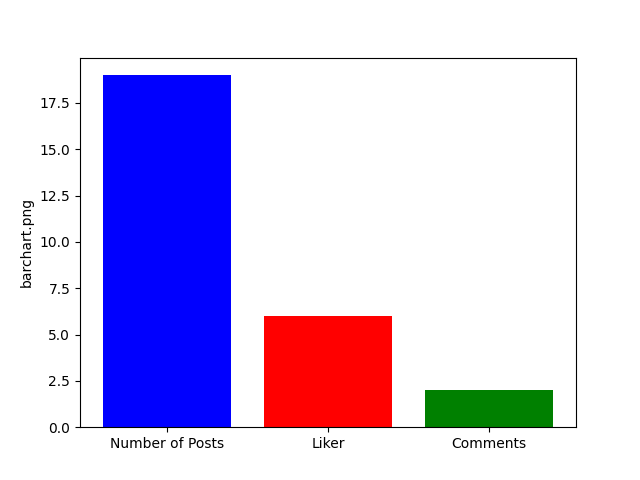
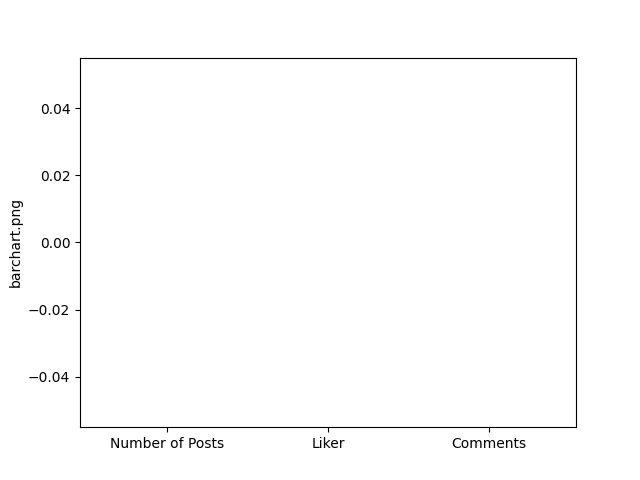
pushing latest changes

diff --git a/static/download/test1@gmail.com.html b/static/download/test1@gmail.com.html
@@ -1,0 +1,51 @@
+<!DOCTYPE html>
+<html lang="en">
+<head>
+	<meta charset="UTF-8">
+	<meta http-equiv="X-UA-Compatible" content="IE=edge">
+	<meta name="viewport" content="width=device-width, initial-scale=1.0">
+	<title>Monthly Report</title>
+	<link href="https://cdn.jsdelivr.net/npm/bootstrap@5.2.3/dist/css/bootstrap.min.css" rel="stylesheet" integrity="sha384-rbsA2VBKQhggwzxH7pPCaAqO46MgnOM80zW1RWuH61DGLwZJEdK2Kadq2F9CUG65" crossorigin="anonymous">
+</head>
+<body>
+		<div class="container">
+				<div class="jumbotron">
+						<div class="h6">Dear test one,</div>
+				</div>
+				<div class="row justify-content-center h2">
+						
+						Your Performance in Last Month
+				
+				
+		</div>
+				<div class="row my-2 justify-content-center text-info">
+						
+								You have created 0 posts 
+						
+						
+				</div>
+				<div class ="row justify-content-center text-danger my-2 ">
+							 You have received 0 likes
+				</div>
+				<div class ="row justify-content-center text-success my-2 ">
+						 0 total_comments
+		 </div>
+		 <div class="row justify-content-end">
+				Thank you for using Blog light
+				
+		 </div>
+		 <div class="row m-3">
+				<div
+					id="chartContainer"
+					class="justify-content-center m-auto"
+					style="width: 50rem"
+				>
+					<!-- <canvas id="myChart"></canvas> -->
[1 lines of base64/hex data omitted]
+				</div>
+			</div>
+
+		</div>
+
+</body>
+</html>
